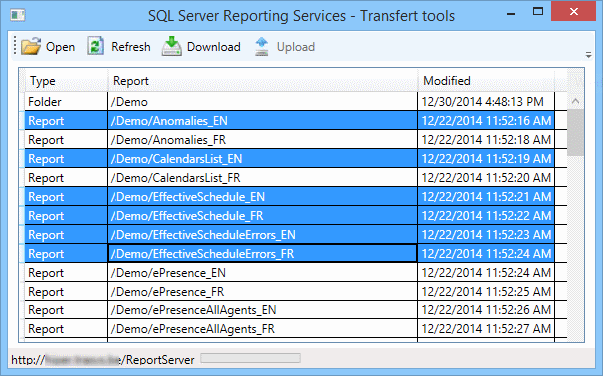
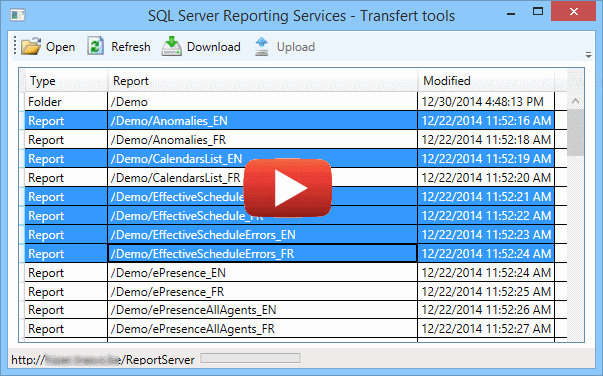
Update Sample picture and Readme.md file.

Changed region(s): [[0.3881, 0.4096, 0.5672, 0.5851]]

diff --git a/README.md b/README.md
@@ -5,8 +5,7 @@ This tool can download all resources stored in SQL Server Reporting Services 200
 
 Download [ReportTransfert.exe - v.1.2.0](https://raw.github.com/dvoituron/SsrsReportTransfert/master/Releases/v1.2.0/ReportTransfert.exe)
 
-[![Report Transfet](https://img.youtube.com/vi/TYh9avchpow/0.jpg)](https://youtu.be/TYh9avchpow)
-Click to start the video
+[![Report Transfert](https://github.com/dvoituron/SsrsReportTransfert/blob/master/Sample.png)](https://youtu.be/TYh9avchpow)
 
 To download reports
 -------------------
